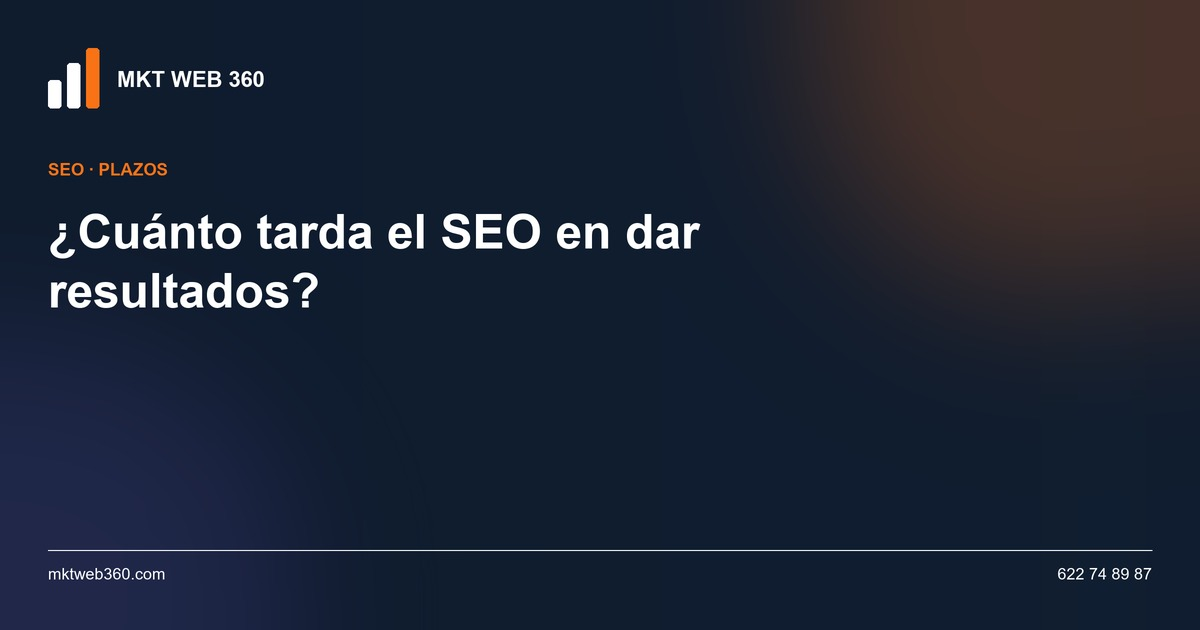
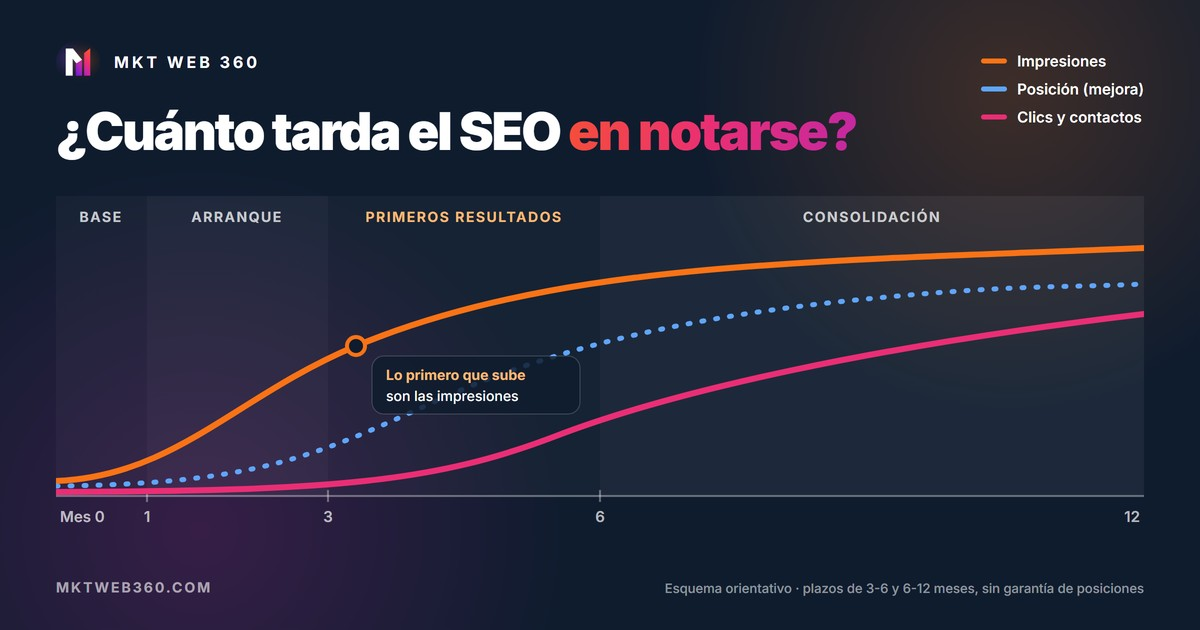
content(blog): imágenes ilustrativas en los 3 artículos nuevos
- Auditoría web: ilustración de la web bajo la lupa con el resultado por bloques.
- Cuánto tarda el SEO: gráfico orientativo de fases (impresiones, posición, clics).
- SEO para pymes: viñeta de cómic en dos paneles.
- Logo oficial MW360 (sustituye al icono antiguo de tres barras).
- og:image con nombre nuevo para renovar la caché de redes y buscadores;
  /og-{slug}.jpg actualizado para el listado del blog y los relacionados.
- Imagen de cabecera añadida en /auditoria-seo-basica/ con texto alternativo descriptivo.

diff --git a/app/(site)/auditoria-seo-basica/page.tsx b/app/(site)/auditoria-seo-basica/page.tsx
@@ -1,3 +1,4 @@
+import Image from "next/image";
 import type { Metadata } from "next";
 import Link from "next/link";
 import type { ReactNode } from "react";
@@ -26,7 +27,7 @@ export const metadata: Metadata = {
     description: DESCRIPTION,
     url: URL,
     type: "article",
-    images: [{ url: "https://www.mktweb360.com/og-auditoria-seo-basica.jpg", width: 1200, height: 630 }],
+    images: [{ url: "https://www.mktweb360.com/og-auditoria-web-checklist.jpg", width: 1200, height: 630 }],
   },
 };
 
@@ -39,7 +40,7 @@ const articleSchema = {
   publisher: { "@type": "Organization", name: "Mkt Web 360 SLU", logo: { "@type": "ImageObject", url: "https://www.mktweb360.com/logo.png" } },
   datePublished: "2026-06-13",
   dateModified: DATE_MODIFIED,
-  image: "https://www.mktweb360.com/og-auditoria-seo-basica.jpg",
+  image: "https://www.mktweb360.com/og-auditoria-web-checklist.jpg",
   url: URL,
   mainEntityOfPage: { "@type": "WebPage", "@id": URL },
 };
@@ -237,6 +238,14 @@ export default function Page() {
           <p className="text-xl text-gray-600 leading-relaxed">
             Una checklist para revisar tu web con herramientas gratuitas de Google: si se indexa, si carga bien en móvil, si el contenido responde a lo que busca tu cliente, si tu ficha de Google cuadra con la web y si te ven los asistentes de IA.
           </p>
+          <Image
+            src="/og-auditoria-web-checklist.jpg"
+            alt="Ilustración: una lupa revisa una página web y encuentra un error 404, junto a una tarjeta con el resultado de cada bloque de la auditoría"
+            width={1200}
+            height={630}
+            className="w-full rounded-2xl mt-6"
+            priority
+          />
         </header>
 
         <div className="text-gray-700 space-y-6 leading-relaxed">

diff --git a/app/(site)/cuanto-tarda-el-seo-en-dar-resultados/page.tsx b/app/(site)/cuanto-tarda-el-seo-en-dar-resultados/page.tsx
@@ -12,7 +12,7 @@ import { BlogBanner } from "@/components/BlogBanner";
 
 const SLUG = "cuanto-tarda-el-seo-en-dar-resultados";
 const URL = `https://www.mktweb360.com/${SLUG}/`;
-const OG = `/og-${SLUG}.jpg`;
+const OG = "/og-cuanto-tarda-seo-grafico.jpg";
 const TITLE = "¿Cuánto tarda el SEO en dar resultados? Plazos por fases";
 const DESCRIPTION =
   "El SEO tarda de 3 a 6 meses en dar los primeros resultados y de 6 a 12 en consolidarse, de forma orientativa. Qué pasa cada mes y cómo verlo en Search Console.";
@@ -202,7 +202,7 @@ export default function CuantoTardaSeoPage() {
           <p className="text-xl text-gray-600 leading-relaxed">
             El plazo depende de cómo está tu web hoy y de con quién compites. Te explicamos qué pasa en cada fase, qué datos de Search Console se mueven primero y cuándo un retraso indica un problema.
           </p>
-          <Image src={OG} alt="Cuánto tarda el SEO en dar resultados" width={1200} height={630} className="w-full rounded-2xl mt-6" priority />
+          <Image src={OG} alt="Gráfico orientativo de 12 meses: primero suben las impresiones, después mejora la posición y por último llegan los clics y contactos" width={1200} height={630} className="w-full rounded-2xl mt-6" priority />
         </header>
 
         <div className="text-gray-700 space-y-6 leading-relaxed">

diff --git a/app/(site)/seo-para-pymes-guia/page.tsx b/app/(site)/seo-para-pymes-guia/page.tsx
@@ -14,7 +14,7 @@ import { preciosPlanesSeo } from "@/lib/precios-planes";
 
 const SLUG = "seo-para-pymes-guia";
 const URL = `https://www.mktweb360.com/${SLUG}/`;
-const OG = `/og-${SLUG}.jpg`;
+const OG = "/og-seo-para-pymes-vineta.jpg";
 const TITLE = "SEO para pymes: qué hacer, cuánto cuesta y por dónde empezar";
 const DESCRIPTION =
   "Guía de SEO para pymes en 2026: qué puedes hacer tú esta semana, qué conviene delegar, cuánto cuesta un plan SEO y cuánto tarda en notarse.";
@@ -209,7 +209,7 @@ export default async function SeoParaPymesPage() {
           <p className="text-xl text-gray-600 leading-relaxed">
             Qué es el SEO para una pyme, qué puedes hacer tú esta misma semana, qué conviene delegar, cuánto cuesta y cuánto tarda. Sin promesas de posiciones.
           </p>
-          <Image src={OG} alt="SEO para pymes: qué hacer, cuánto cuesta y por dónde empezar" width={1200} height={630} className="w-full rounded-2xl mt-6" priority />
+          <Image src={OG} alt="Viñeta: una comerciante se pregunta por qué nadie la encuentra en Google y después señala su lista de tareas SEO de la semana" width={1200} height={630} className="w-full rounded-2xl mt-6" priority />
         </header>
 
         <div className="text-gray-700 space-y-6 leading-relaxed">
